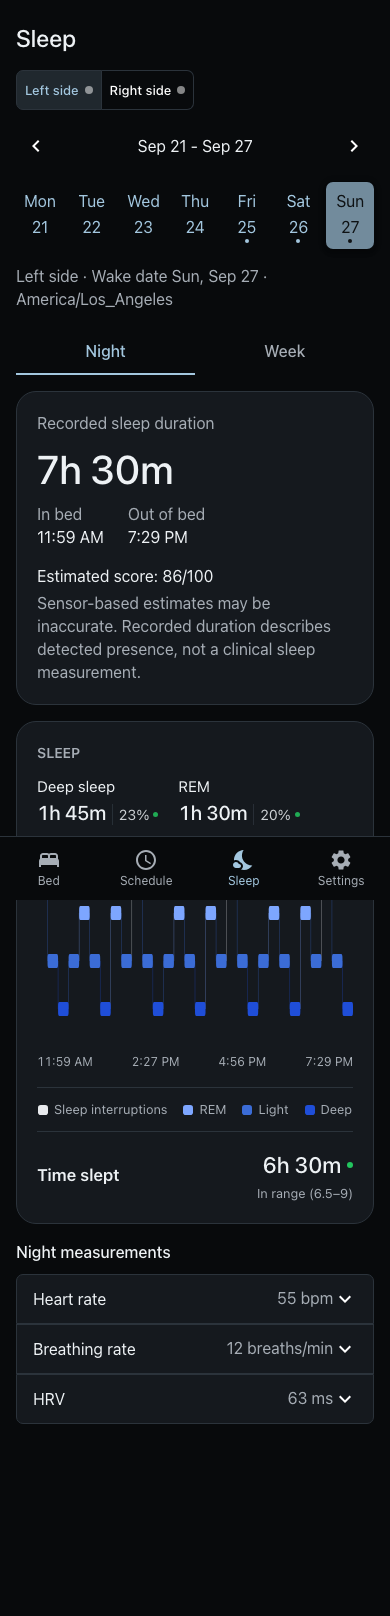
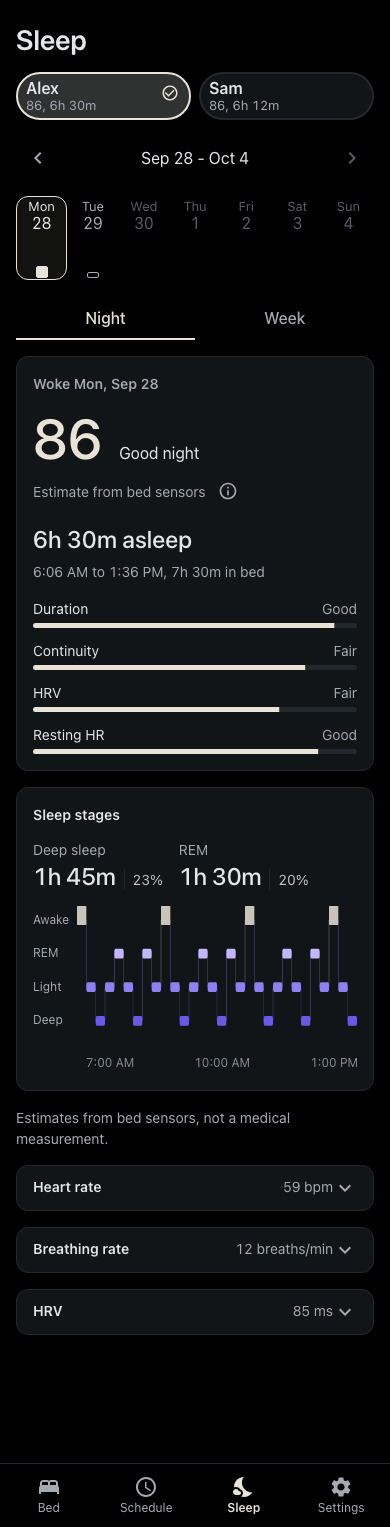
docs: clarify project credits and installation behavior
Describe firmware files and internet blocking separately. Use neutral
names for Eight Sleep's software and upstream free-sleep, and keep
published release notes unchanged.

diff --git a/server/src/features/featuresManifest.ts b/server/src/features/featuresManifest.ts
@@ -29,7 +29,7 @@ export const FEATURES_MANIFEST: ManifestEntry[] = [
   {
     id: 'agent',
     title: 'Updates and rollback',
-    description: 'In-app updates, rollback, revert to stock, and the Settings > Software & updates page. The floor every other feature sits on.',
+    description: 'In-app updates, rollback, switching to upstream free-sleep, and the Settings > Software & updates page.',
     category: 'platform',
     version: '3.0.0',
     flag: null,
@@ -139,13 +139,12 @@ export const FEATURES_MANIFEST: ManifestEntry[] = [
     reversible: true,
     tests: ['server/src/routes/metrics/sleepScoreGuard.test.ts'],
     upstream_offer: false,
-    rationale: 'The clearest real dependency edge in the set: neither route had '
-      + 'depends_on-biometrics enforcement before 3.1.0, both always fabricated a result '
-      + 'from whatever window they were given even with no real measurements behind it.',
+    rationale: 'Before 3.1.0, neither route required biometrics to be enabled, so both could '
+      + 'report a result without data. They now require biometrics and sufficient measurements.',
   },
   {
     id: 'honest-status',
-    title: 'Honest status',
+    title: 'Clear status',
     description: 'Status page shows waiting_for_data and calibration-skip as calm states, not failures; false-alarm fixes.',
     category: 'safety',
     version: '3.0.0',
@@ -331,7 +330,7 @@ export const FEATURES_MANIFEST: ManifestEntry[] = [
     reversible: true,
     tests: ['server/src/resourceLimitsScript.test.ts'],
     upstream_offer: false,
-    rationale: 'Always on, as a safety measure. Revert to stock removes the limits.',
+    rationale: 'Always on, as a safety measure. Switching to upstream free-sleep removes the limits.',
   },
 
   {

diff --git a/server/src/routes/update/update.ts b/server/src/routes/update/update.ts
@@ -67,14 +67,14 @@ router.post('/rollback', async (_req, res) => {
 
 // Full revert to plain upstream free-sleep, undoing Nightstand entirely.
 // Reversible only by re-adopting via scripts/migrate/switch-to-this-fork.sh
-// afterward. There's no in-app way back once stock code is running.
+// afterward. There's no in-app way back once upstream free-sleep is running.
 router.post('/revert-to-stock', async (_req, res) => {
   try {
     triggerRevertToStockService();
     res.status(204).end();
   } catch (error) {
-    logger.error('Failed to start revert to stock', error);
-    res.status(500).json({ message: 'Unable to start revert to stock' });
+    logger.error('Could not start switching to upstream free-sleep.', error);
+    res.status(500).json({ message: 'Could not start switching to upstream free-sleep.' });
   }
 });
 

diff --git a/server/src/revertToStockScript.test.ts b/server/src/revertToStockScript.test.ts
@@ -76,9 +76,9 @@ describe('revert-to-stock.sh', () => {
 
   it('removes fork-only systemd units after a successful revert', () => {
     const src = readFileSync(path.join(repoRoot, SCRIPT), 'utf8');
-    const successIdx = src.indexOf('SUCCESS: pod is serving stock');
-    assert.ok(successIdx >= 0);
-    const rest = src.slice(successIdx);
+    const successIdx = src.indexOf('if [ "$HEALTHY" = yes ]; then');
+    assert.ok(successIdx >= 0, 'expected the successful health-check branch');
+    const rest = src.slice(successIdx, src.indexOf('  exit 0', successIdx));
     assert.match(rest, /free-sleep-rollback\.service/);
     assert.match(rest, /free-sleep-revert\.service/);
     assert.match(rest, /free-sleep\.service\.d\/10-nightstand-limits\.conf/);

diff --git a/README.md b/README.md
@@ -164,7 +164,7 @@ rollback restores code, not an earlier database or the Eight Sleep firmware.
 
 ### Can I go back to the Eight Sleep app?
 
-A firmware reset restores Eight Sleep's stock software. Follow the procedure
+A firmware reset restores Eight Sleep's software. Follow the procedure
 for your model in [How to revert](INSTALLATION.md#how-to-revert-changes-and-go-back-to-using-your-eight-sleep-through-their-app).
 Pod 5 reset steps are not documented here yet. Switching to upstream
 free-sleep from Settings installs another community application; it does not
@@ -175,7 +175,7 @@ restore Eight Sleep software.
 I'm not aware of any bricked Pods on Pod 3 without an SD card, Pod 4, or
 Pod 5. There are fewer reports for Pod 3 with an SD card, which uses a
 different install method. If an install goes wrong, a firmware reset restores
-the stock software. Read the
+Eight Sleep's software. Read the
 [reset instructions for your model](INSTALLATION.md#how-to-revert-changes-and-go-back-to-using-your-eight-sleep-through-their-app)
 before installing; Pod 5 reset steps are not documented here yet. Proceed
 at your own risk.

diff --git a/docs/REMOTE_ACCESS.md b/docs/REMOTE_ACCESS.md
@@ -150,7 +150,7 @@ These exceptions remain after Tailscale stops, until the firewall is reapplied
 or changed. Rerun the block script after changing Tailscale setup; stopping
 Tailscale and reapplying it removes the broad exceptions.
 
-As noted in [installation step 19](../INSTALLATION.md#19-add-firewall-rules-to-block-internet-access-optional-but-recommended), these rules leave the Pod able to reach any HTTPS host. Masking the update services in [installation step 11](../INSTALLATION.md#11-disable-software-updates) is what prevents forced firmware updates.
+As noted in [installation step 19](../INSTALLATION.md#19-add-firewall-rules-to-block-internet-access-optional-but-recommended), these rules leave the Pod able to reach any HTTPS host. Masking the update services in [installation step 11](../INSTALLATION.md#11-disable-software-updates) is what prevents automatic firmware updates.
 
 ## 6 Use the pod from your phone
 

diff --git a/CHANGELOG.md b/CHANGELOG.md
@@ -68,9 +68,9 @@ is a hard fork; for the history of the projects it descends from, see
   next to daily priming. It was already a setting, with no control in the app.
 
 - A Pod switched over from another fork now gets the same services and
-  permissions as a fresh install, so Roll back, Revert to stock, and turning
-  biometrics off work right away instead of after the first update. The
-  permissions file is also checked before it is replaced.
+  permissions as a fresh install. Roll back, switching to upstream free-sleep,
+  and turning biometrics off work right away instead of after the first
+  update. The permissions file is also checked before it is replaced.
 
 - Switching from another fork now downloads the migration tool's two helper
   files along with it, and the tool checks for them before it changes

diff --git a/docs/EIGHT_SLEEP_PROTOCOL.md b/docs/EIGHT_SLEEP_PROTOCOL.md
@@ -140,8 +140,8 @@ temperature.
 
 This is a real, reported failure mode: a free-sleep user hit 102°F overnight
 against an 84°F setpoint, cleared by a power cycle; sleepypod/core
-independently documented the same root cause in their ADR 0022. free-sleep
-v3.1.0+ watches `frzHealth` for this (TEC actively drawing current + pump
+independently documented the same root cause in their ADR 0022. Nightstand
+v3.0.0+ watches `frzHealth` for this (TEC actively drawing current + pump
 RPM near zero or `water: false`, sustained for a dwell window) and surfaces
 it in Settings > Pod and diagnostics > System status as "Pump health." Detection and visibility only,
 no automatic power-off, since a safe automatic response is a bigger call

diff --git a/ops/ANTIBRICK.md b/ops/ANTIBRICK.md
@@ -14,7 +14,7 @@ check before installing.
 ## Rules for every change
 
 - Deploy unpublished changes through `ops/deploy.sh`. Never edit code live on
-  the Pod. The stock installer and in-app updater install published code and
+  the Pod. The release installer and in-app updater install published code and
   can replace a development build.
 - Deploy committed code from a clean checkout. The script ships `HEAD`, even
   with `--force`; it never includes uncommitted files.
